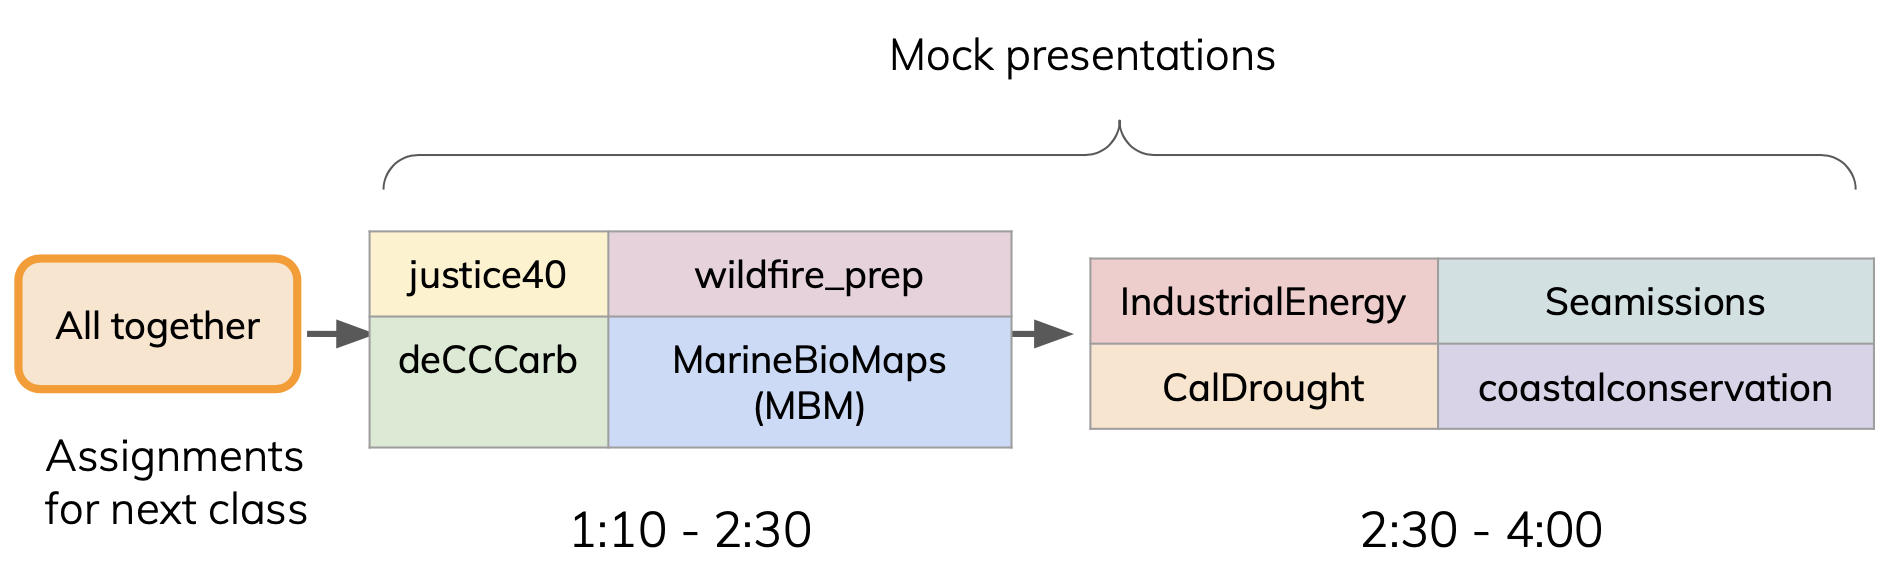
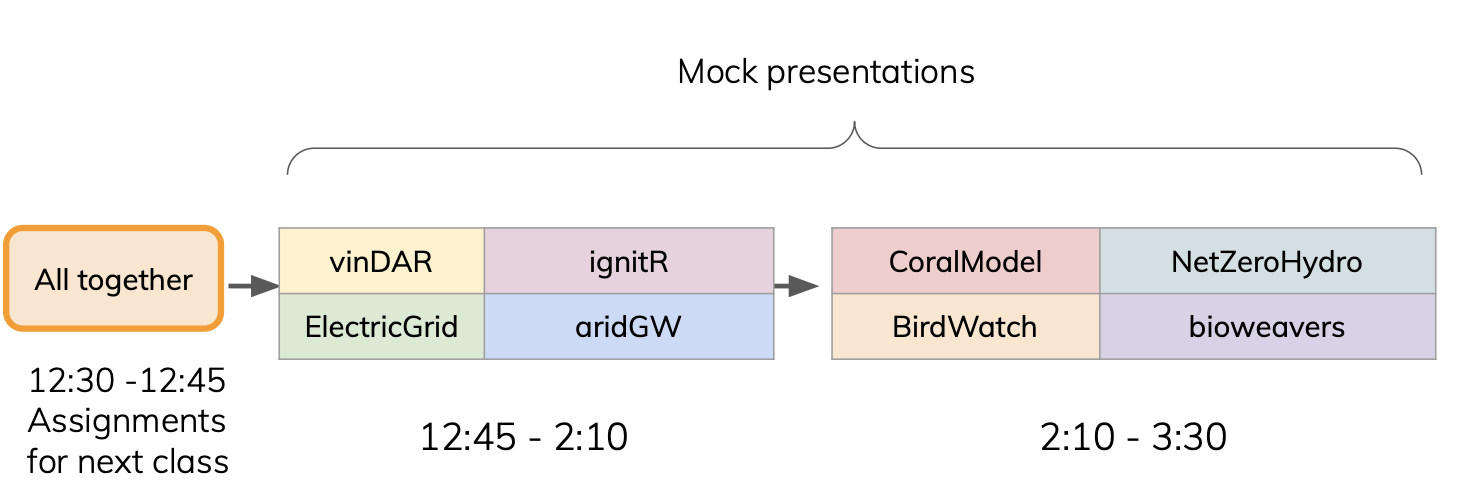
Finish week 6 updates, render website

diff --git a/docs/411b_spring/411b_week6.html b/docs/411b_spring/411b_week6.html
@@ -259,20 +259,19 @@ ul.task-list li input[type="checkbox"] {
 <h3 class="anchored" data-anchor-id="final-presentations">Final Presentations</h3>
 <p>📗 <a href="">Final presentations logistics slides - Jamie Montgomery, MEDS Program Director</a></p>
 <p>📙 <a href="">Ten ways to improve presentations - Dr.&nbsp;Alexandra Phillips, Asst. Teaching Professor</a></p>
-<p>🎥 (1)<a href="">MEDS final presentation recording</a> - Improving Access to Fish Consumption Advisories and Maintaining Confidence in California’s Healthy Seafood Products. <a href="https://bren.ucsb.edu/projects/improving-access-fish-consumption-advisories-and-maintaining-confidence-californias">Project Website</a></p>
-<p>🎥 (2)<a href="">MEDS final presentation recording</a> - Identifying Priority Survey Sites for Early-Season Milkweed Conservation <a href="https://bren.ucsb.edu/projects/identifying-priority-survey-sites-early-season-milkweed-conservation">Project Website</a></p>
+<p>🎥 (1)<a href="https://vimeo.com/1101941533">MEDS final presentation recording</a> - Modeling the Impact of Decarbonization on Labor in California’s Central Coast. <a href="https://bren.ucsb.edu/projects/modeling-impact-decarbonization-labor-californias-central-coast">Project Website</a></p>
+<p>🎥 (2)<a href="https://vimeo.com/1101941682">MEDS final presentation recording</a> - Quantifying Greenhouse Gas (GHG) Emissions Associated with Global Seafood Production <a href="https://bren.ucsb.edu/projects/quantifying-greenhouse-gas-ghg-emissions-associated-global-seafood-production">Project Website</a></p>
+<p>🎥 <a href="https://www.youtube.com/watch?v=wvCM2S7-x7A">All 2025 MEDS Capstone Project Presentations</a></p>
 </section>
 </section>
 <section id="schedule" class="level2">
 <h2 class="anchored" data-anchor-id="schedule">Schedule</h2>
-<p>1:00 - 1:05: Questions, Check-in, Upcoming Assignments</p>
-<p>1:05 - 1:35: Faculty Review Logistics - Sam Shanny-Csik</p>
-<p>1:35 - 2:00: 2023 MEDS capstone final presentation screening</p>
-<p>1:50 - 2:00: Break</p>
-<p>2:00 - 2:50: Dedicated work time &amp; meetings with teams</p>
-<p>2:50 - 2:00: Break</p>
-<p>3:00 - 3:50: Dedicated work time &amp; meetings with teams</p>
-<p>3:50 - 4:00: Team Reflection</p>
+<p>12:30 - 12:45: Questions, check-in, upcoming assignments</p>
+<p>12:45 - 2:00: Ten ways to improve presentations - Dr.&nbsp;Alexandra Phillips, Asst. Teaching Professor</p>
+<p>2:00 - 2:10: Break</p>
+<p>2:10 - 2:40: Final presentations logistics - Jamie Montgomery, MEDS Program director</p>
+<p>2:40 - 3:20 Dedicated work time &amp; meetings with teams</p>
+<p>3:20 - 3:30: Team reflections</p>
 </section>
 <section id="recent-upcoming-deadlines" class="level2">
 <h2 class="anchored" data-anchor-id="recent-upcoming-deadlines">Recent &amp; upcoming deadlines</h2>
@@ -413,7 +412,7 @@ Schedule for class on Week 9
 </section>
 <section id="next-class-schedule" class="level2">
 <h2 class="anchored" data-anchor-id="next-class-schedule">Next class schedule</h2>
-<p>The class will be divided in two blocks from 1:00 to 2:30 and from 2:30 to 4:00. Each team will present and provide feedback to other teams as follows:</p>
+<p>Next the class will be divided in two blocks from 12:30 to 2:10 and from 2:10 to 3:30. Each team will present and provide feedback to other teams as follows:</p>
 <p><img src="../411b_spring/images/presentations_blocks_1.png" class="img-fluid"></p>
 <p>Your theam should work on their project outside of their “presentation block”. The following rooms are reserved for you so you have a dedicated workspace during our usual class time. You’re welcome to use other places to work.</p>
 <p><img src="../411b_spring/images/presentations_rooms_1.png" class="img-fluid"></p>

diff --git a/docs/411b_spring/411b_week3.html b/docs/411b_spring/411b_week3.html
@@ -265,14 +265,13 @@ Next class 12:30-2:00 PM: Unit Testing Workshop
 <section id="materials" class="level2">
 <h2 class="anchored" data-anchor-id="materials">Materials</h2>
 <p>📕 <a href="https://docs.google.com/presentation/d/1Gt6HgSLKq6eL44r8lxnhoEVx1KlFBBxS3WBt58o-Hfw/edit?usp=sharing">Class slides</a></p>
-<p>🗂 <a href="https://drive.google.com/drive/folders/1aRq_u3htDfhN1q9Ssw6Ep7_Y_88cG7ev?usp=share_link">TD Drafts shared folder</a></p>
 <p>💭 <a href="https://docs.google.com/presentation/d/1YZsGHTsWveQQ_qd1P6SsbBNaosZs4d9MYLImr8dcd3o/edit?usp=share_link">In-class team reflections</a></p>
 <p>📖 <a href="https://bren.ucsb.edu/sites/default/files/Capstone%20Project%20Guidelines%20MEDS%202026.pdf">Capstone guidelines</a></p>
 </section>
 <section id="schedule" class="level2">
 <h2 class="anchored" data-anchor-id="schedule">Schedule</h2>
 <p>12:30 - 12:45: Questions, Check-in, Upcoming Assignments</p>
-<p>12:45 - 1:20: Peer feedback of Technical Documentation draft</p>
+<p>12:45 - 1:20: TBD</p>
 <p>1:20 - 1:25: BREAK</p>
 <p>1:25 - 2:25: Dedicated work time &amp; meetings with teams</p>
 <p>2:25 - 2:35: BREAK</p>
